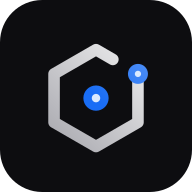
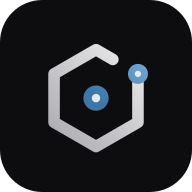
fix(ui): the steel blue, one button shape, a quiet hover — @krizaka/ui 3.31.0 (krizaka-ui#393) (#76)
* fix(ui): retire the chamfer, the lifts and the pointer light (krizaka-ui#393)

One button shape (the Button's default), hovers that change a colour and never a
position, no kz-spotlight/kz-lift/kz-sheen, no shimmer/magnetic, the Krizaka
steel blue where the old electric blue was hard-coded.

* chore(deps): @krizaka/ui, tokens, tailwind 3.31.0 (krizaka-ui#393)

---------

Changed region(s): [[0.4062, 0.4375, 0.5938, 0.5938], [0.6562, 0.3125, 0.7812, 0.4375]]

diff --git a/app/components/pages/PostPage.tsx b/app/components/pages/PostPage.tsx
@@ -68,7 +68,7 @@ export default function PostPage({ post }: { post: Post }) {
       {/* The way to follow: the e-mail form (the newsletter's, further down the page) first, the feed page as a quiet second
           (/feed/: what RSS is and the address to copy; the feed file itself is for readers). */}
       <p className="bl-follow">
-        <Button asChild variant="primary" size="md" shape="cut">
+        <Button asChild variant="primary" size="md">
           <a href="#subscribe">{t.post.subscribe}</a>
         </Button>
         <Button asChild variant="ghost" size="md">
@@ -112,7 +112,7 @@ export default function PostPage({ post }: { post: Post }) {
       <NewsletterSection locale={locale} where="post" />
       {(prev || next) && post.series && (
         <Section title={seriesName(locale, post.series)} divider reveal={false}>
-          <CardGrid light={false} min={280} reveal={false} className="bl-series-nav">
+          <CardGrid min={280} reveal={false} className="bl-series-nav">
             {prev && <LinkCard linkAs={Link} href={localizedPath(locale, postPath(prev.slug))} meta={t.post.prevInSeries} title={prev.title} icon={<BackIcon size={18} />} titleAs="h3" />}
             {next && <LinkCard linkAs={Link} href={localizedPath(locale, postPath(next.slug))} meta={t.post.nextInSeries} title={next.title} icon={<ForwardIcon size={18} />} titleAs="h3" className="bl-series-next" />}
           </CardGrid>

diff --git a/app/components/pages/HomePage.tsx b/app/components/pages/HomePage.tsx
@@ -63,7 +63,7 @@ export default function HomePage({ locale }: { locale: Locale }) {
       <NewsletterSection locale={locale} where="home" />
       {series.length > 0 && (
         <Section title={t.home.seriesTitle} lead={t.home.seriesLead} divider>
-          <CardGrid light={false} min={320}>
+          <CardGrid min={320}>
             {series.map(({ series: id, posts: inSeries }) => (
               <LinkCard key={id} linkAs={Link} href={localizedPath(locale, `/series/${id}`)} title={seriesName(locale, id)} description={seriesLead(locale, id)} meta={seriesCount(locale, inSeries.length)} cta={t.home.moreFromSeries} titleAs="h3" />
             ))}
@@ -72,7 +72,7 @@ export default function HomePage({ locale }: { locale: Locale }) {
       )}
       <AuthorNote locale={locale} />
       <Section title={t.home.elsewhereTitle} lead={t.home.elsewhereLead} divider>
-        <CardGrid light={false} min={260}>
+        <CardGrid min={260}>
           <LinkCard href={KRIZAKA_URL} title={t.home.company} description={t.home.companyBody} cta={t.home.open} titleAs="h3" />
           <LinkCard href={UI_URL} title={t.home.ui} description={t.home.uiBody} cta={t.home.open} titleAs="h3" />
           <LinkCard href={JAVA_URL} title={t.home.java} description={t.home.javaBody} cta={t.home.open} titleAs="h3" />

diff --git a/app/globals.css b/app/globals.css
@@ -248,9 +248,8 @@ picture { display: contents; }
 .bl-card h3 { font-size: 1.125rem; line-height: 1.35; }
 /* A restrained hover (Oussama, 2026-10-16: no coloured glow, no blue halo): the card lifts 2 px, its surface one step
    lighter, its hairline one step stronger. Same in dark and light; no lift under reduced motion. */
-.bl-card { transition: transform 0.25s var(--kz-ease, ease), background-color 0.25s, border-color 0.25s; }
+.bl-card { transition: background-color 150ms, border-color 150ms; }
 .bl-card:hover, .bl-card:has(.bl-card-link:focus-visible) { background-color: var(--kz-surface-2); border-color: var(--kz-border-strong); }
-@media (hover: hover) and (prefers-reduced-motion: no-preference) { .bl-card:hover { transform: translateY(-2px); } }
 /* The title never underlines (Oussama: « horrible » on large titles): on hover or keyboard focus it shifts a little
    towards the accent — a mix of the text and accent-text tokens, so its contrast stays a text contrast in both themes. */
 .bl-card :is(h2, h3) { color: var(--kz-text-primary); transition: color 0.2s var(--kz-ease, ease); }

diff --git a/app/components/about/WuSamaMark.tsx b/app/components/about/WuSamaMark.tsx
@@ -45,12 +45,12 @@ export function WuSamaMark({ size = 32, title, className }: WuSamaMarkProps) {
           <stop offset="100%" stopColor="var(--kz-text-primary, #0f172a)" />
         </linearGradient>
         <linearGradient id={blueId} gradientUnits="userSpaceOnUse" x1={180} y1={180} x2={300} y2={60}>
-          <stop offset="0%" stopColor="#196df5" />
+          <stop offset="0%" stopColor="#3e76a8" />
           <stop offset="100%" stopColor="#5696fa" />
         </linearGradient>
         <radialGradient id={glowId} cx="50%" cy="50%" r="50%">
-          <stop offset="0%" stopColor="#196df5" stopOpacity={0.16} />
-          <stop offset="100%" stopColor="#196df5" stopOpacity={0} />
+          <stop offset="0%" stopColor="#3e76a8" stopOpacity={0.16} />
+          <stop offset="100%" stopColor="#3e76a8" stopOpacity={0} />
         </radialGradient>
       </defs>
 

diff --git a/app/components/newsletter/NewsletterPages.tsx b/app/components/newsletter/NewsletterPages.tsx
@@ -53,11 +53,11 @@ export function NewsletterStatusPage({ locale, status }: { locale: Locale; statu
       <PageHero eyebrow={n.eyebrow} title={title} lead={lead} backdrop="plain" linkAs={Link}>
         <div className="bl-nl-actions">
           {status === "unsubscribed" && (
-            <Button asChild variant="primary" shape="cut">
+            <Button asChild variant="primary">
               <Link href={localizedPath(locale, "/newsletter")}>{n.resubscribeButton}</Link>
             </Button>
           )}
-          <Button asChild variant={status === "confirmed" ? "primary" : "secondary"} shape="cut">
+          <Button asChild variant={status === "confirmed" ? "primary" : "secondary"}>
             <Link href={localizedPath(locale, "/")}>{n.backToBlog}</Link>
           </Button>
         </div>

diff --git a/app/components/pages/SeriesPage.tsx b/app/components/pages/SeriesPage.tsx
@@ -25,7 +25,7 @@ export function SeriesIndexPage({ locale }: { locale: Locale }) {
       <PageHero eyebrow={t.home.eyebrow} title={t.series.title} lead={t.series.lead} backdrop="plain" linkAs={Link} />
       <Section reveal={false}>
         {all.length ? (
-          <CardGrid light={false} min={320} reveal={false}>
+          <CardGrid min={320} reveal={false}>
             {all.map(({ series, posts }) => (
               <LinkCard key={series} linkAs={Link} href={localizedPath(locale, `/series/${series}`)} title={seriesName(locale, series)} description={seriesLead(locale, series)} meta={seriesCount(locale, posts.length)} titleAs="h2" />
             ))}

diff --git a/lib/color.ts b/lib/color.ts
@@ -1,6 +1,6 @@
 /* Token colours for renderers without CSS (the Open Graph images): `hsl(H S% L% / A)` → `#rrggbb` or `rgba()`.
    scripts/gen-favicon.mjs keeps the same function for the mark (tests/og.test.mjs checks they agree). */
-/** `hsl(217 92% 53%)` or `hsl(0 0% 100% / 0.1)` → `#rrggbb` / `rgba(…)`: the renderer of the mark reads neither. */
+/** `hsl(208 46% 45%)` or `hsl(0 0% 100% / 0.1)` → `#rrggbb` / `rgba(…)`: the renderer of the mark reads neither. */
 export function hslToCss(hsl: string): string {
   const m = hsl.match(/hsl\(\s*([\d.]+)\s+([\d.]+)%\s+([\d.]+)%\s*(?:\/\s*([\d.]+))?\s*\)/);
   if (!m) return hsl;

diff --git a/app/components/pages/TagsPage.tsx b/app/components/pages/TagsPage.tsx
@@ -20,7 +20,7 @@ export function TagsPage({ locale }: { locale: Locale }) {
       <PageHero eyebrow={t.home.eyebrow} title={t.tags.title} lead={t.tags.lead} backdrop="plain" linkAs={Link} />
       <Section reveal={false}>
         {tags.length ? (
-          <CardGrid light={false} min={240} reveal={false}>
+          <CardGrid min={240} reveal={false}>
             {tags.map(({ tag, count }) => (
               <LinkCard key={tag} linkAs={Link} href={localizedPath(locale, `/tags/${tag}`)} title={tagLabel(locale, tag)} description={postCount(locale, count)} titleAs="h2" />
             ))}

diff --git a/app/components/SearchBox.tsx b/app/components/SearchBox.tsx
@@ -45,7 +45,7 @@ export function SearchBox({ entries }: { entries: SearchEntry[] }) {
         {!query.trim() ? t.search.hint : results.length ? format(t.search.results, { count: String(results.length) }) : t.search.noResults}
       </p>
       {results.length > 0 && (
-        <CardGrid light={false} min={320} reveal={false}>
+        <CardGrid min={320} reveal={false}>
           {results.map((r) => (
             <LinkCard key={r.href} linkAs={Link} href={r.href} title={r.title} description={r.description} titleAs="h2" />
           ))}

diff --git a/app/components/pages/PostList.tsx b/app/components/pages/PostList.tsx
@@ -10,7 +10,7 @@ export const formatDate = (iso: string, locale: Locale): string =>
 export function PostList({ posts, locale, reveal = true }: { posts: Post[]; locale: Locale; reveal?: boolean }) {
   const t = getDictionary(locale);
   return (
-    <CardGrid light={false} min={320} reveal={reveal} aria-label={t.home.latest}>
+    <CardGrid min={320} reveal={reveal} aria-label={t.home.latest}>
       {posts.map((p) => (
         <PostCard key={p.slug} post={p} locale={locale} />
       ))}

diff --git a/app/components/newsletter/SubscribeForm.tsx b/app/components/newsletter/SubscribeForm.tsx
@@ -98,7 +98,7 @@ export function SubscribeForm({ id = "nl" }: { id?: string }) {
           onBlur={() => setTouched(true)}
           className="bl-nl-input"
         />
-        <Button type="submit" variant="primary" shape="cut" size="md" loading={status === "sending"}>
+        <Button type="submit" variant="primary" size="md" loading={status === "sending"}>
           {status === "sending" ? n.sending : n.submitCompact}
         </Button>
       </div>

diff --git a/app/global-not-found.tsx b/app/global-not-found.tsx
@@ -38,7 +38,7 @@ export default function GlobalNotFound() {
               }
               actions={
                 <div className="kz-404-actions">
-                  <Button asChild variant="primary" size="md" shape="cut">
+                  <Button asChild variant="primary" size="md">
                     <a href="/">{en.back}</a>
                   </Button>
                   <Button asChild variant="secondary" size="md">
